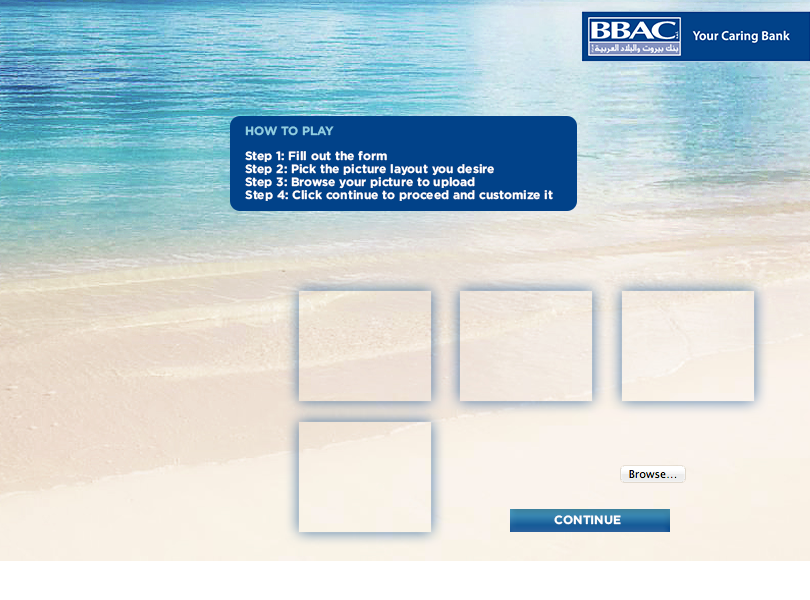
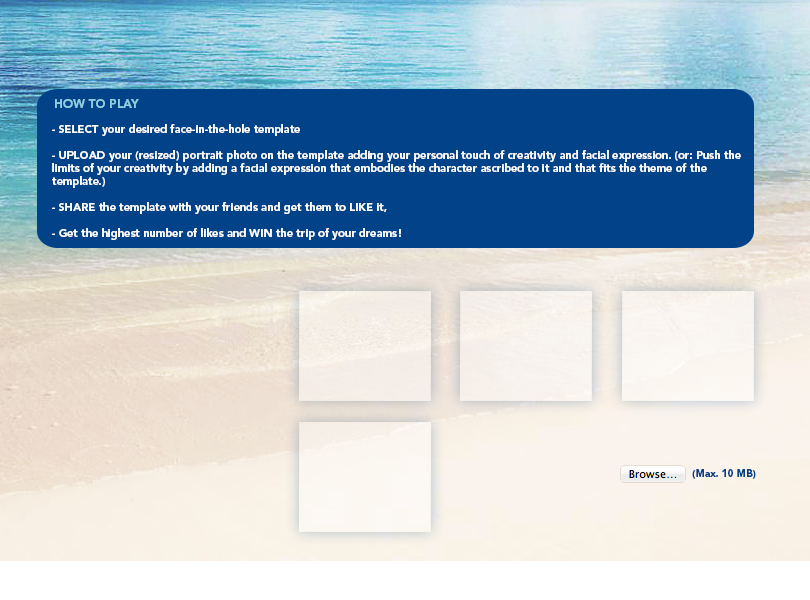
facebook app done
ready to be published on facbeook

diff --git a/app/php/gallery_design.php b/app/php/gallery_design.php
@@ -5,7 +5,7 @@
                 <div style="margin:auto; width:193px; height:74px">
                 	<div class="v_text">
                     	<div style="width:190px; color:#FFF; text-align:center;font-family: 'Conv_gotham-bold'; font-size:11px; text-transform:uppercase"><p style="-webkit-margin-before: 4px !important;"><?php echo $property['name'];?></p></div>
-                        <div style="width:190px; text-align:center; position:absolute; bottom:0; color:#FFF;font-family: 'Conv_gotham-bold'; font-size:12px; text-transform:uppercase"><p style="-webkit-margin-before: 7px !important;-webkit-margin-after: 7px !important;"><a style="color:#FFF; text-decoration:none" href="#" onClick="voteFor(<?php echo $property['id'];?>)">vote</a> &nbsp; <img src="images/dot.png" /> &nbsp; <span style="cursor:pointer">share</span> &nbsp;<img src="images/dot.png" /> &nbsp;<span style="cursor:pointer">invite</span></p></div>
+                        <div style="width:190px; text-align:center; position:absolute; bottom:0; color:#FFF;font-family: 'Conv_gotham-bold'; font-size:12px; text-transform:uppercase"><p style="-webkit-margin-before: 7px !important;-webkit-margin-after: 7px !important;"><a style="color:#FFF; text-decoration:none" href="#" onClick="voteFor(<?php echo $property['id'];?>)">vote</a> &nbsp; <img src="images/dot.png" /> &nbsp; <a style="color:#FFF; text-decoration:none" href="#" class="shareit" onclick="document.getElementById('bbac_image').value='<?php echo $property['image'];?>'">share</a> &nbsp;<img src="images/dot.png" /> &nbsp;<a style="color:#FFF; text-decoration:none" href="#" onClick="sendRequestViaMultiFriendSelector()">invite</a></p></div>
                     </div>
                 </div>
                 

diff --git a/app/vote.php b/app/vote.php
@@ -10,7 +10,7 @@
 
 
 <div id="vote">
-
+<div style="position:absolute; right:0px; top:11px"><a href="index.php"><img src="images/logo.png" /></a></div>
     <div id="terms" class="lightbox"></div>
     
     <div id="terms_back_bg">
@@ -99,7 +99,57 @@ $_SESSION['sort'] = 0;
 
 
 </div>
+<input type="hidden" value="" id="bbac_image"/>
+<script src="https://connect.facebook.net/en_US/all.js"></script>
+<script>
 
+FB.init({
+        appId  : '597766673589432',
+        frictionlessRequests: true,
+    });
+
+      function sendRequestToRecipients() {
+        var user_ids = document.getElementsByName("user_ids")[0].value;
+        FB.ui({method: 'apprequests',
+          message: 'message',
+          to: user_ids, 
+        }, requestCallback);
+      }
+
+      function sendRequestViaMultiFriendSelector() {
+        FB.ui({method: 'apprequests',
+          message: 'BBAC'
+        }, requestCallback);
+      }
+      
+      function requestCallback(response) {
+        // Handle callback here
+      }
+
+$(document).ready(function() {
+
+		$('.shareit').click(function(e){
+			var myimage = $('#bbac_image').val();
+		
+			var n=myimage.replace("../","");
+
+			var img = 'http://lebappsonline.com/dev01/bbac/app/' + n;
+			
+			e.preventDefault();
+			FB.ui(
+			{
+			method: 'feed',
+			name: 'BBAC',
+			link: 'http://www.facebook.com/bbacbank?&sk=app_597766673589432',
+			picture: img,
+			caption: 'Please vote for this image',
+			description: '',
+			message: ''
+			});
+		});
+
+	});
+</script>
 <script>
 function voteFor(image){
 	window.location = 'vote.php?partid='+image;

diff --git a/app/php/user_vote.php b/app/php/user_vote.php
@@ -21,17 +21,17 @@ if(isset($_GET['partid']) && ($_GET['partid'] != ''))
 			$votes = $row['votes'];
 			$votes += 1;
 			
-			//$image = $config['baseurl'] .'gallery/t/' . $row['image'];
+			$image = $config['baseurl'] . $row['image'];
 			
 			$db ="UPDATE participants SET votes = '$votes' WHERE id= '$partid'";
 			$update = mysql_query ($db);
 		
-		/*$facebook->api("/me/feed", "post", array(
+		$facebook->api("/me/feed", "post", array(
 			message => 'I Just voted for this image',
 			picture=>  $image,
 			link => $config['appbaseurl'],
-			name => "Total"
-			));*/
+			name => "BBAC"
+			));
 			
 		echo '<script>document.location.replace("aftervote.php?v=1");</script>';
 	}
@@ -69,7 +69,7 @@ if(isset($_GET['partid']) && ($_GET['partid'] != ''))
 				$votes = $row['votes'];
 				$votes += 1;
 				
-				//$image = $config['baseurl'] .'gallery/t/' . $row['image'];
+			$image = $config['baseurl']  . $row['image'];
 				
 			$db ="UPDATE participants SET votes = '$votes' WHERE id= '$partid'";
 			$update = mysql_query ($db);
@@ -77,12 +77,12 @@ if(isset($_GET['partid']) && ($_GET['partid'] != ''))
 			$write = mysql_query("INSERT INTO votes VALUES ('','$partid','{$_SESSION['uid']}','$date')");
 			
 			
-			/*$facebook->api("/me/feed", "post", array(
+			$facebook->api("/me/feed", "post", array(
 			message => 'I Just voted for this image',
 			picture=>  $image,
 			link => $config['appbaseurl'],
-			name => "Total"
-			));*/
+			name => "BBAC"
+			));
 			
 			
 			echo '<script>document.location.replace("aftervote.php?v=1");</script>';

diff --git a/app/play2.php b/app/play2.php
@@ -88,7 +88,7 @@ if (!isset($_SESSION['image']) || ($_SESSION['image'] == ''))
 	<div id="blank"><div id="background" style="position:absolute"><img style="width: 484px; height: 384px;" src="images/background/<?php echo $_SESSION['thumb_name'];?>" /></div>
     	<div id="blank2">
             <div id="draggable-wrapper" >
-                <div id="resizable-wrapper"><img id="elem-wrapper" src="gallery/t/<?php echo $_SESSION['image'];?>" /></div>
+                <div id="resizable-wrapper"><img id="elem-wrapper" src="gallery/t/<?php echo $_SESSION['image'];?>" /><div style="position:absolute; bottom:0px; right:0px; font-size:18px;" onmouseover="this.style.display='none'">resize</div></div>
             </div>
         </div>
 	</div>

diff --git a/app/play.php b/app/play.php
@@ -1,4 +1,16 @@
 <?php include "includes/header.php";?>
+
+<?php
+/*
+$dbs = "SELECT * FROM participants WHERE fb_id = '{$_SESSION['uid']}'";
+$extractx = mysql_query ($dbs);
+$numrows = mysql_num_rows ($extractx);
+
+if($numrows > 0)
+{
+	echo "<script>document.location.replace('vote.php');</script>";
+}*/
+?>
 <?php include "php/submit_play.php";?>
 <style>
 #Gaia{
@@ -6,7 +18,7 @@
 }
 </style>
 <div id="fillout">
-
+<div style="position:absolute; right:0px; top:11px"><a href="index.php"><img src="images/logo.png" /></a></div>
 <div id="terms" class="lightbox"></div>
 
 <div id="terms_back_bg">

diff --git a/app/includes/include.php b/app/includes/include.php
@@ -7,7 +7,7 @@ $config['appid' ] = "597766673589432";
 $config['secret'] = "504da90df3de81b67e8ae61aabab8b2a";
 $config['baseurl'] = "http://lebappsonline.com/dev01/bbac/app/";
 
-$config['appbaseurl'] = "http://www.facebook.com/pages/Publiscreen-Apps/581669711863250?id=581669711863250&sk=app_597766673589432";
+$config['appbaseurl'] = "http://www.facebook.com/bbacbank?&sk=app_597766673589432";
 // Create our Application instance.
 $facebook = new Facebook(array(
 'appId' => $config['appid'],

diff --git a/app/index.php b/app/index.php
@@ -11,15 +11,6 @@ if($numrows == 0)
 	$date = date("Y-m-d");
 	$write = mysql_query("INSERT INTO users VALUES ('','{$_SESSION['uid']}','$uname','$uemail','$dob','$date')");
 }
-
-$dbs = "SELECT * FROM participants WHERE fb_id = '{$_SESSION['uid']}'";
-$extractx = mysql_query ($dbs);
-$numrows = mysql_num_rows ($extractx);
-
-if($numrows > 0)
-{
-	echo "<script>document.location.replace('vote.php');</script>";
-}
 ?>
 
 

diff --git a/app/includes/header.php b/app/includes/header.php
@@ -5,9 +5,9 @@
 include_once('ip2country.php');
 $ip2c=new ip2country();
 $ip2c->mysql_host='localhost';
-$ip2c->db_user='yasserc_total';
+$ip2c->db_user='yasserc_bbac';
 $ip2c->db_pass='a123456789b';
-$ip2c->db_name='yasserc_total';
+$ip2c->db_name='yasserc_bbac';
 $ip2c->table_name='ip2c';
 
 $_SESSION['country'] = $ip2c->get_country_name();
